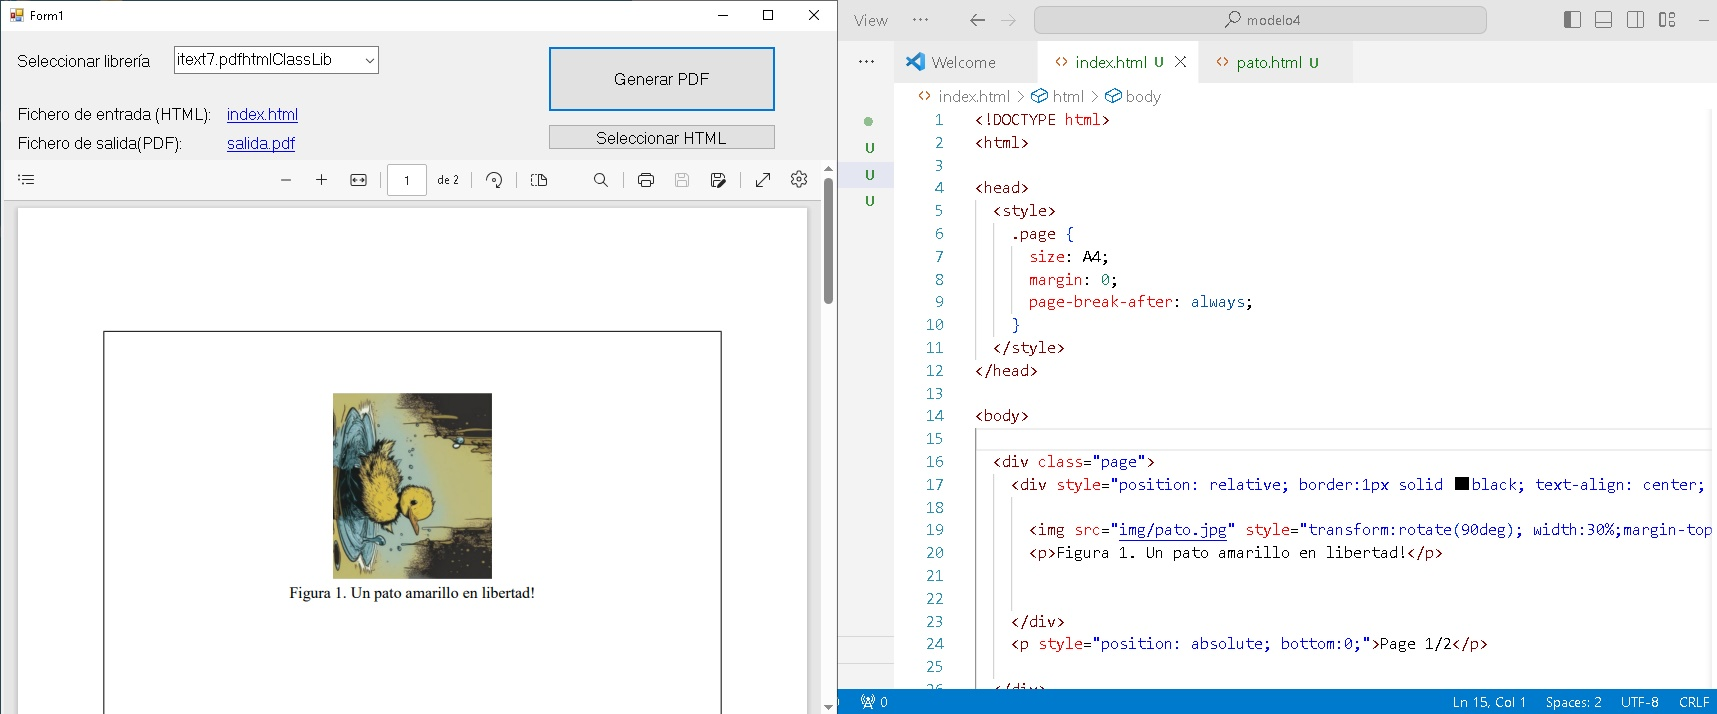
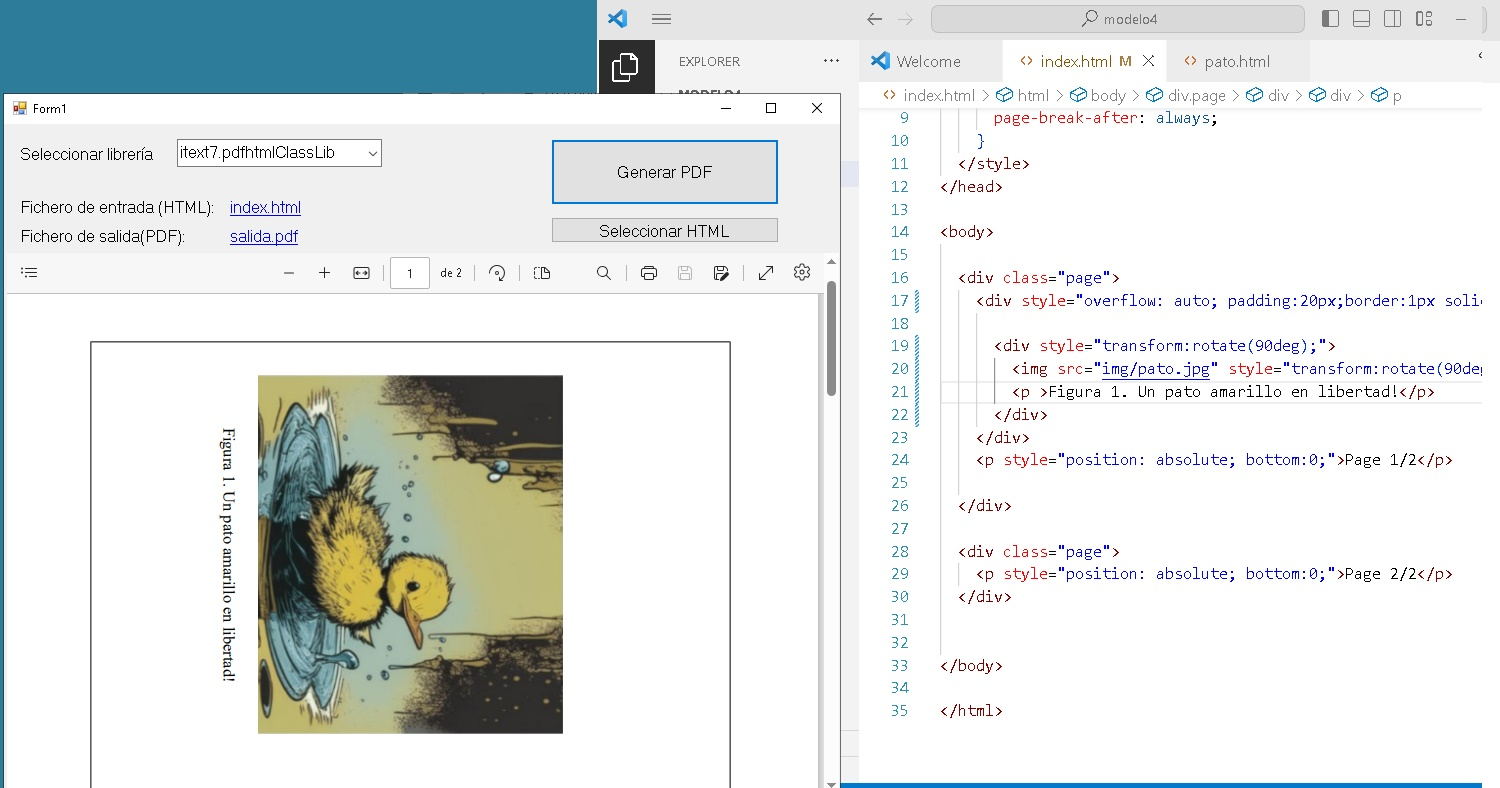
.

diff --git a/GenerarDocumentacion/EjemplosHtmlToPdf/Ej1_PDFdesdeHTML_Desktop/plantillas/modelo4/index.html b/GenerarDocumentacion/EjemplosHtmlToPdf/Ej1_PDFdesdeHTML_Desktop/plantillas/modelo4/index.html
@@ -14,12 +14,12 @@
 <body>
 
   <div class="page">
-    <div style="position: relative; border:1px solid black; text-align: center; margin-top: 2cm; margin-bottom: 1cm; margin-left: 1cm; margin-right: 1cm; height: 20cm;">
+    <div style="overflow: auto; padding:20px;border:1px solid black; text-align: center; margin-top: 1cm; margin-bottom: 1cm; margin-left: 1cm; margin-right: 1cm; height: 20cm;">
 
-      <img src="img/pato.jpg" style="transform:rotate(90deg); width:30%;margin-top: 2cm;" />
-      <p>Figura 1. Un pato amarillo en libertad!</p>
-
-      
+      <div style="transform:rotate(90deg);">
+        <img src="img/pato.jpg" style="transform:rotate(90deg); width:60%;margin-top: 1cm;" />
+        <p >Figura 1. Un pato amarillo en libertad!</p>
+      </div>
     </div>
     <p style="position: absolute; bottom:0;">Page 1/2</p> 
 
